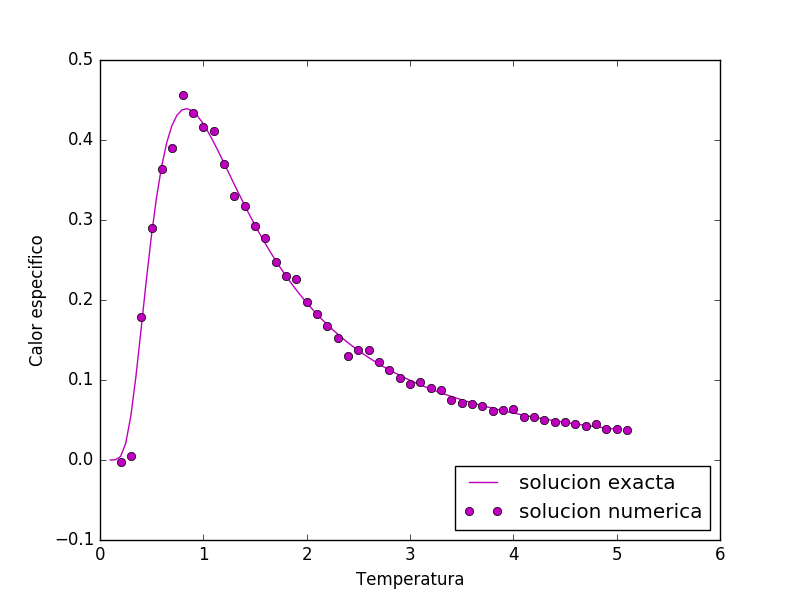
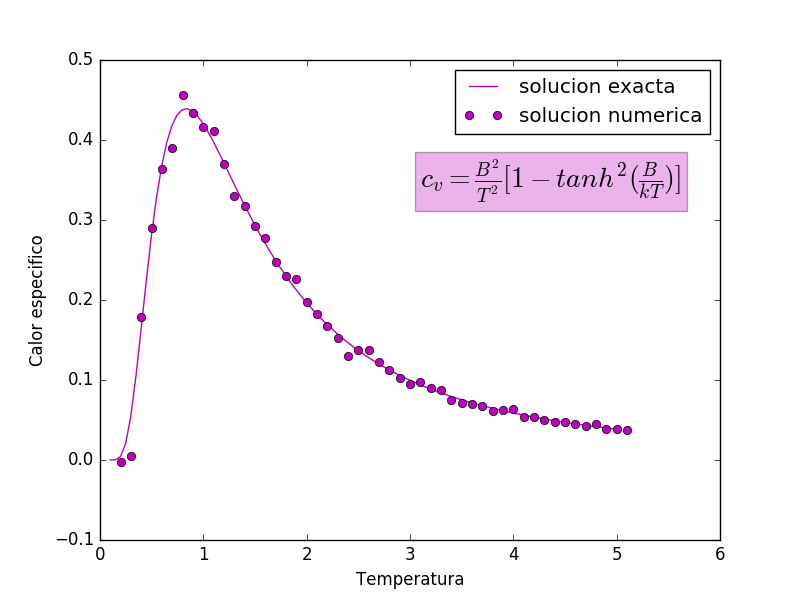
"Graficos E, M, cv y Susc"

Changed region(s): [[0.5, 0.09, 0.9062, 0.36], [0.5625, 0.75, 0.9062, 0.9]]

diff --git a/bin/sin acople/EvsT.py b/bin/sin acople/EvsT.py
@@ -46,6 +46,7 @@ plt.plot(temp,eteorica,'b',label="solucion exacta")
 plt.errorbar(energia[0][0], energia[0][1], energia[0][2], fmt='o',color='b',label="solucion numerica")
 plt.xlabel("Temperatura")
 plt.ylabel("Energia promedio <e>")
+plt.text(0.18,-0.32, r'$<e>=B$'+' '+r'$tanh(\frac{B}{kT})$', fontsize=20, bbox=dict(facecolor='b', alpha=0.3))
 plt.legend(loc='upper left')
 plt.show()
 

diff --git a/bin/sin acople/CvsT.py b/bin/sin acople/CvsT.py
@@ -60,7 +60,8 @@ for i in range(0,len(key)):
  plt.plot(calor[i][0],calor[i][1],color[i],label='solucion numerica') 
 plt.xlabel("Temperatura")
 plt.ylabel("Calor especifico")
-plt.legend(loc='lower right')
+plt.text(3.1, 0.34, r'$c_{v} = \frac{B^2}{T^2}[1-{tanh^2(\frac{B}{kT})}]$', fontsize=20, bbox=dict(facecolor='m', alpha=0.3))
+plt.legend(loc='upper right')
 plt.show()
 
 

diff --git a/bin/sin acople/MvsT.py b/bin/sin acople/MvsT.py
@@ -45,7 +45,7 @@ plt.plot(temp,mteorica,'r',label="solucion exacta")
 plt.errorbar(magnet[0][0], magnet[0][1], magnet[0][2], fmt='o', color='r',label="solucion numerica")
 plt.xlabel("Temperatura")
 plt.ylabel("Magnetizacion promedio <m>")
-
+plt.text(3.5, 0.78, r'$<m> = tanh(\frac{B}{kT})$', fontsize=20, bbox=dict(facecolor='r', alpha=0.3))
 plt.legend()
 plt.show()
 

diff --git a/bin/sin acople/SuscepvsT.py b/bin/sin acople/SuscepvsT.py
@@ -62,7 +62,8 @@ for i in range(0,len(key)):
  plt.plot(suscep[i][0],suscep[i][1],color[i],label="solucion numerica") 
 plt.xlabel("Temperatura")
 plt.ylabel("Susceptibilidad")
-plt.legend(loc='lower right')
+plt.text(3.3,355, r'$\chi=\frac{N}{kT}[1-tanh^2(\frac{B}{kT})]$', fontsize=20, bbox=dict(facecolor='g', alpha=0.3))
+plt.legend(loc='upper right')
 plt.show()
 
 
